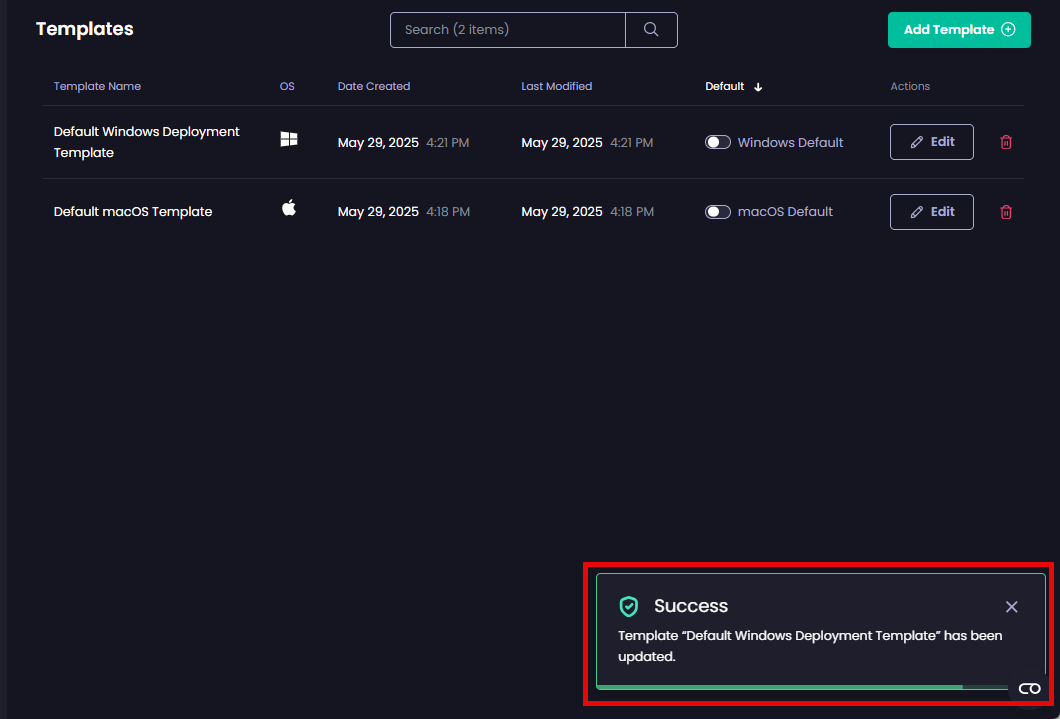
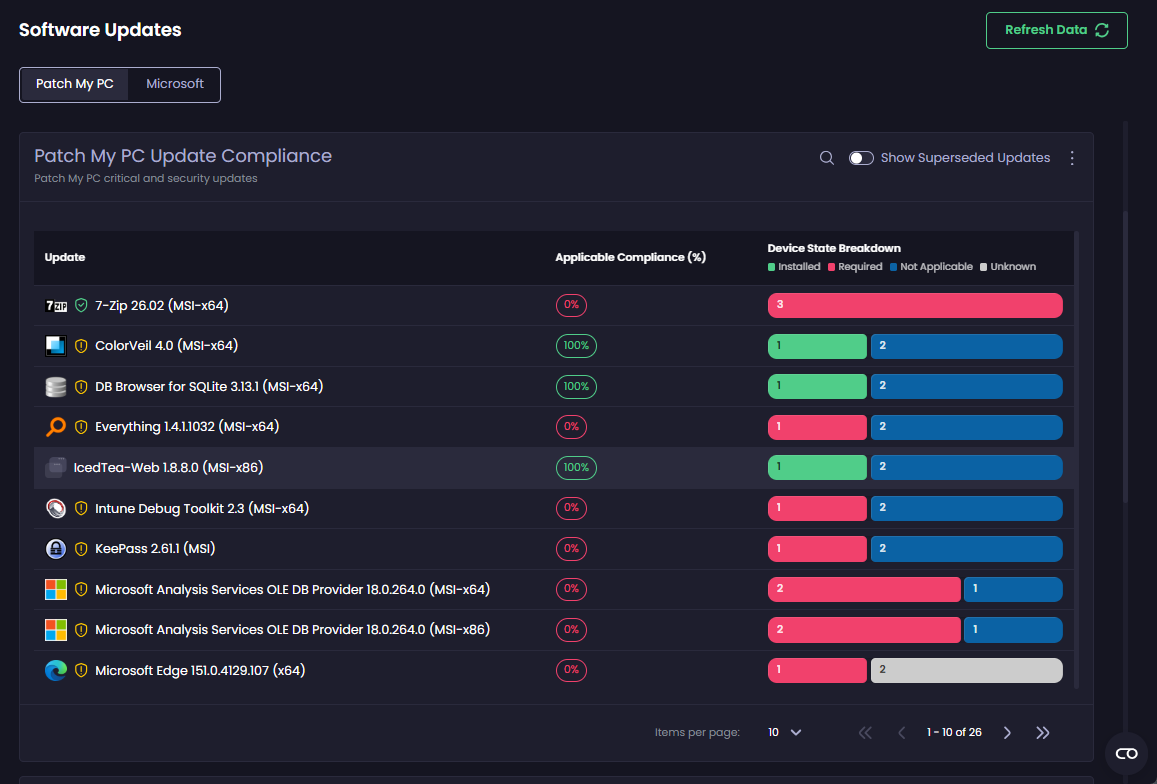
GITBOOK-5340: change request with no subject merged in GitBook

diff --git a/patch-my-pc-cloud/insights-intune/about-dashboards/updates-page.md b/patch-my-pc-cloud/insights-intune/about-dashboards/updates-page.md
@@ -94,7 +94,7 @@ The **Patch My PC Update Compliance** report lists PMPC update compliance for up
 
 The table lists overall compliance for each update.
 
-<figure><img src="../../../.gitbook/assets/image (4271).png" alt="&#x27;Patch My PC Update Compliance&#x27; report" width="563"><figcaption></figcaption></figure>
+<figure><img src="../../../.gitbook/assets/image (757).png" alt="&#x27;Patch My PC Update Compliance&#x27; report" width="563"><figcaption></figcaption></figure>
 
 {% hint style="info" %}
 **Note**
